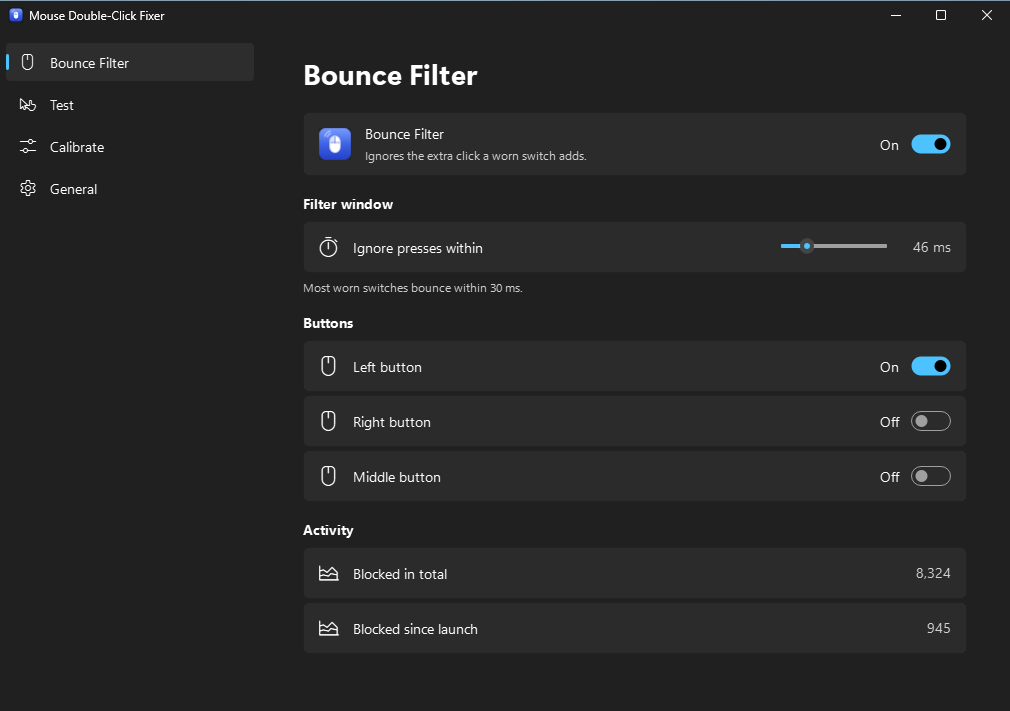
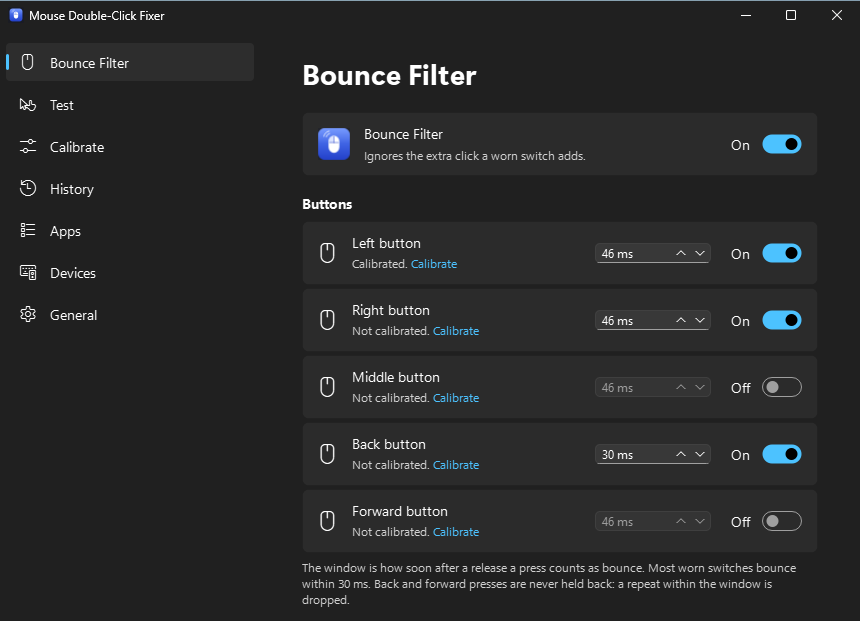
Regenerate the README screenshots for 1.0: the Filter pane with a row for each button

diff --git a/tools/screenshots.py b/tools/screenshots.py
@@ -8,16 +8,24 @@ captures it from the screen, so native materials (Mica, vibrancy) show; CI
 uses it on the Windows runner. Settings are isolated in a temporary folder,
 so this never touches a real configuration.
 
-`--docs` captures only the Bounce Filter pane for the README, whole (every
-button's row, the wheel fix and the counts, nothing scrolled off), in the same
-state on both platforms so the two screenshots match side by side:
-docs/images/macos.png comes from an offscreen run on a Mac (the window drawn
-dark, with its corners and window buttons, since nothing is on screen to
-capture), docs/images/windows.png from CI's `--live --docs` run on Windows
-(a real window, the title bar included). `--size WIDTHxHEIGHT` sets the picture's
-size; without it the window is as tall as the pane needs (a live window is
-held to what the screen shows). The Mac picture has the Windows one's size
-when both are given the same `--size`, the Windows title bar counted.
+`--docs` captures only the Bounce Filter pane for the README, in the same
+state on both platforms (the filter on, three buttons with windows of their own,
+the wheel fix on) so the two screenshots match side by side. Nothing is
+scrolled or cut through: a pane the window can't show whole ends below the last
+section that fits.
+
+    docs/images/windows.png  CI's `--live --docs` run on Windows (the
+                             windows-screenshots artifact's docs-filter.png): a
+                             real window, title bar included, as tall as the
+                             runner's 1024 x 768 screen allows.
+    docs/images/macos.png    `--docs --size=WIDTHxHEIGHT` on a Mac, with the
+                             Windows picture's size so the two match: an
+                             offscreen render of the window, drawn dark with
+                             its corners and window buttons, since there is no
+                             window server to capture one from.
+
+Without `--size` the window is as tall as the pane needs (a live window is held
+to what the screen shows).
 
 `--social` draws docs/images/social-preview.png, the 1280 x 640 card GitHub
 shows for links to the repository (upload it under Settings › General ›
